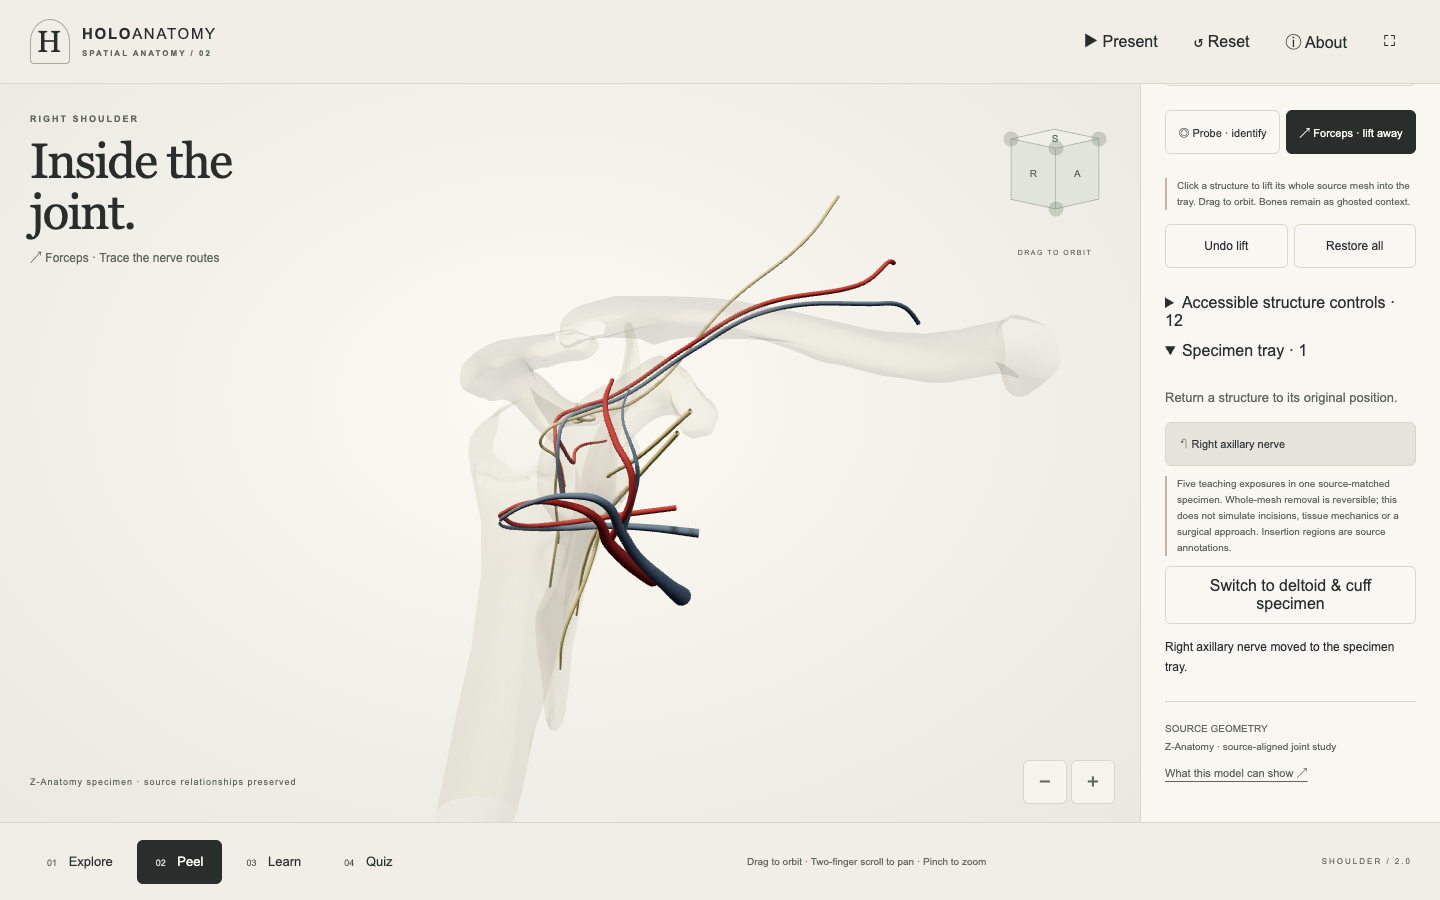
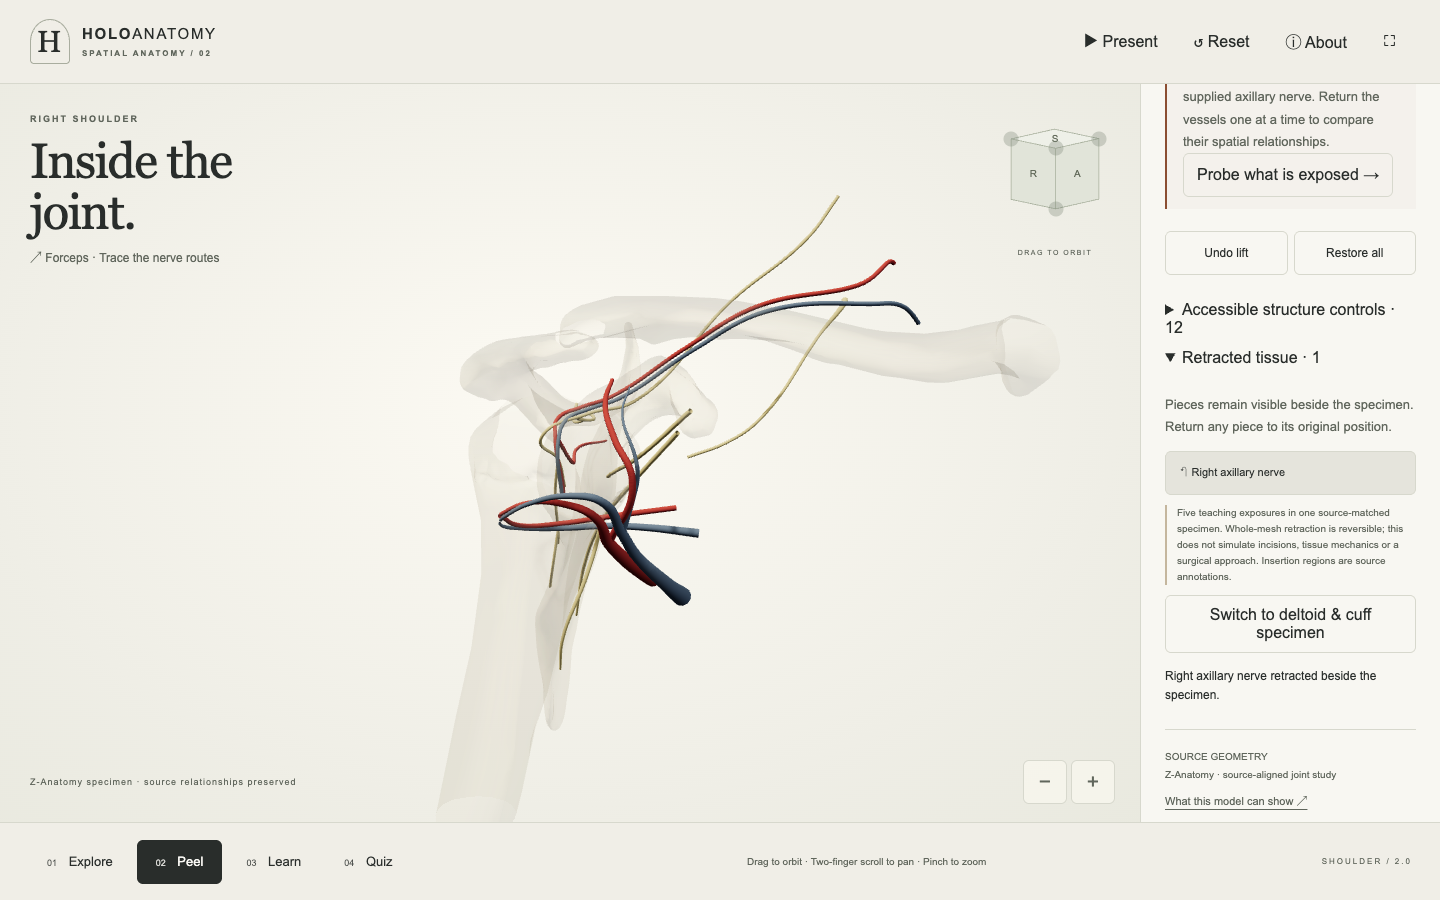
Make shoulder forceps pull and park visible tissue with reversible gestures

diff --git a/arjan-portfolio/public/holoanatomy/shoulder/app.js b/arjan-portfolio/public/holoanatomy/shoulder/app.js
@@ -114,6 +114,40 @@ function initialize() {
   };
   $("close-info").onclick = () => $("info-dialog").close();
   bindInteraction($("specimen"), scene, {
+    pull: {
+      enabled: () => state.mode === "peel" && state.dissection.active && state.dissection.tool === "lift",
+      begin: (id, e) => {
+        const d = state.dissection;
+        if (state.mode !== "peel" || !d.active || d.tool !== "lift" || ATLAS_GROUPS.bones.includes(id) || d.removed.includes(id) || !dissectionIds(state).includes(id)) return false;
+        scene.beginTissuePull(id);
+        scene.pull.pointer = {x:e.clientX, y:e.clientY};
+        $("specimen").style.cursor = "grabbing";
+        $("feedback").textContent = `Holding ${name(id)}. Pull away; release a short pull to snap back.`;
+        $("hover").hidden = true;
+        return true;
+      },
+      move: (dx,dy) => {
+        scene.moveTissuePull(dx,dy);
+        if (!scene.pull) return;
+        const rect = $("specimen").getBoundingClientRect(), badge = $("hover");
+        badge.hidden = false;
+        badge.textContent = `${name(scene.pull.id)} · ${Math.hypot(dx,dy) > 35 ? "Release to park" : "Pull farther"}`;
+        badge.style.left = Math.max(8, Math.min(rect.width - 230, scene.pull.pointer.x + dx - rect.left + 18)) + "px";
+        badge.style.top = Math.max(8, Math.min(rect.height - 45, scene.pull.pointer.y + dy - rect.top - 40)) + "px";
+      },
+      end: (commit) => {
+        const id = scene.pull?.id;
+        scene.finishTissuePull(commit);
+        $("hover").hidden = true;
+        if (commit && id) {
+          dissect(state,id);
+          $("feedback").textContent = `${name(id)} retracted. ${DISSECTION[state.dissection.step].task} Tap the lifted piece to return it.`;
+          if (!matchMedia("(prefers-reduced-motion: reduce)").matches) navigator.vibrate?.(12);
+        } else $("feedback").textContent = "Returned to its original position. Pull farther to keep a structure retracted.";
+        scene.refresh(); renderPanel();
+      },
+      cancel: () => { $("hover").hidden = true; scene.finishTissuePull(false); scene.refresh(); $("feedback").textContent = "Pull cancelled; tissue returned."; },
+    },
     select,
     hover: (id, e) => {
       const node = $("hover");
@@ -258,9 +292,16 @@ function atlasNavigation() {
 }
 function select(id) {
   if (id && state.mode === "peel" && state.dissection.active) {
+    if (state.dissection.tool === "lift" && state.dissection.removed.includes(id)) {
+      state.dissection.undo.push([...state.dissection.removed]);
+      state.dissection.removed = state.dissection.removed.filter(part => part !== id);
+      state.selected = null;
+      $("feedback").textContent = `${name(id)} returned to its original position.`;
+      scene.refresh(); renderPanel(); return;
+    }
     const changed = dissect(state, id);
     $("feedback").textContent = changed
-      ? state.dissection.tool === "lift" ? `${name(id)} moved to the specimen tray.`
+      ? state.dissection.tool === "lift" ? `${name(id)} retracted beside the specimen.`
         : id === DISSECTION[state.dissection.step].target ? `Found it: ${name(id)}. Observation recorded.` : `${name(id)}. Keep exploring the target relationship.`
       : "This structure stays as bone context. Lift a soft-tissue structure instead.";
     scene.refresh(); renderPanel(); return;
@@ -442,13 +483,20 @@ function dissectionPanel() {
     <div class="steps" role="progressbar" aria-label="Dissection observations" aria-valuemin="0" aria-valuemax="5" aria-valuenow="${d.found.length}"><span style="width:${d.found.length / DISSECTION.length * 100}%"></span></div>
     ${d.found.length === DISSECTION.length ? '<p class="observation">All five targets found. Reassemble the specimen and explore how their positions relate. Use Reset for a fresh session.</p>' : ''}
     <nav class="study-tabs" aria-label="Dissection stations">${DISSECTION.map((step,i) => `<button data-station="${i}" aria-current="${i === d.step ? 'step' : 'false'}">${d.found.includes(i) ? '✓' : i+1} · ${step.title}</button>`).join('')}</nav>
-    <div class="study-tabs" role="group" aria-label="Dissection tools"><button data-tool="probe" aria-pressed="${d.tool === 'probe'}">◎ Probe · identify</button><button data-tool="lift" aria-pressed="${d.tool === 'lift'}">↗ Forceps · lift away</button></div>
-    <p class="integrity">Click a structure to ${d.tool === 'probe' ? 'identify it' : 'lift its whole source mesh into the tray'}. Drag to orbit. Bones remain as ghosted context.</p>
+    <div class="study-tabs" role="group" aria-label="Dissection tools"><button data-tool="probe" aria-pressed="${d.tool === 'probe'}">◎ Probe · identify</button><button data-tool="lift" aria-pressed="${d.tool === 'lift'}">↗ Forceps · grab & pull</button></div>
+    <p class="integrity"> ${d.tool === 'probe' ? 'Click to identify. Drag to orbit.' : 'Grab tissue and drag to pull it aside. Release to park it; tap a parked piece to return. Drag empty space to orbit.'} Bones remain as ghosted context.</p>
+    ${d.removed.some(id => dissectionIds(state).includes(id)) ? `<div class="observation"><span class="edition">WHAT DID YOU UNCOVER?</span><p>${[
+      "Compare the exposed cuff surfaces with the lifted bursa. Return the piece, then pull it away again to see what it obscures.",
+      "Switch to Probe and find the infraspinatus tendon region. Compare its location with the separate insertion annotations.",
+      "Orbit through the opening you created. Use Probe to distinguish the labrum, cartilage surfaces and ligament structures; restore the capsule to compare.",
+      "Inspect the joint rim from a second angle. Return one lifted structure at a time and observe which surfaces it covers.",
+      "Switch to Probe and trace the supplied axillary nerve. Return the vessels one at a time to compare their spatial relationships."
+    ][d.step]}</p><button data-tool="probe">Probe what is exposed →</button></div>` : ''}
     <div class="action-row"><button data-action="lab-undo" ${!d.undo.length ? 'disabled' : ''}>Undo lift</button><button data-action="lab-restore" ${!d.removed.length ? 'disabled' : ''}>Restore all</button></div>
     ${state.selected ? `<div class="observation"><strong>${escape(name(state.selected))}</strong><button data-action="focus">Focus structure</button><button data-action="sources">Source & provenance</button></div>` : ''}
     <details><summary>Accessible structure controls · ${available.length}</summary><div class="stage-list">${available.map(id => `<button data-select="${id}">${escape(name(id))}</button>`).join('')}</div></details>
-    <details ${d.removed.length ? 'open' : ''}><summary>Specimen tray · ${d.removed.length}</summary><p>Return a structure to its original position.</p><div class="stage-list">${d.removed.map(id => `<button data-restore="${id}">↶ ${escape(name(id))}</button>`).join('')}</div></details>
-    <p class="integrity">Five teaching exposures in one source-matched specimen. Whole-mesh removal is reversible; this does not simulate incisions, tissue mechanics or a surgical approach. Insertion regions are source annotations.</p>
+    <details ${d.removed.length ? 'open' : ''}><summary>Retracted tissue · ${d.removed.length}</summary><p>Pieces remain visible beside the specimen. Return any piece to its original position.</p><div class="stage-list">${d.removed.map(id => `<button data-restore="${id}">↶ ${escape(name(id))}</button>`).join('')}</div></details>
+    <p class="integrity">Five teaching exposures in one source-matched specimen. Whole-mesh retraction is reversible; this does not simulate incisions, tissue mechanics or a surgical approach. Insertion regions are source annotations.</p>
     <button data-action="surface-lab">Switch to deltoid & cuff specimen</button>`;
 }
 function lessonStep(n) {

diff --git a/arjan-portfolio/public/holoanatomy/shoulder/scene.js b/arjan-portfolio/public/holoanatomy/shoulder/scene.js
@@ -277,6 +277,32 @@ export class ShoulderScene {
     this.pitch = clamp(this.pitch + dy * 0.006, -1.48, 1.48);
     this.invalidate();
   }
+  beginTissuePull(id) {
+    this.transition = null;
+    for (const mesh of this.fragments.get(id)) delete mesh.userData.settle;
+    this.pull = { id, starts: this.fragments.get(id).map(mesh => mesh.position.clone()) };
+    this.hover(id);
+  }
+  moveTissuePull(dx, dy) {
+    if (!this.pull) return;
+    const scale = 2 * this.distance * Math.tan(this.camera.fov * Math.PI / 360) / this.canvas.clientHeight;
+    const limit = this.canvas.clientHeight * 0.32;
+    const delta = new THREE.Vector3().setFromMatrixColumn(this.camera.matrixWorld, 0).multiplyScalar(clamp(dx, -limit, limit) * scale)
+      .addScaledVector(new THREE.Vector3().setFromMatrixColumn(this.camera.matrixWorld, 1), -clamp(dy, -limit, limit) * scale);
+    this.fragments.get(this.pull.id).forEach((mesh,i) => {
+      const inverse = mesh.parent.matrixWorld.clone().invert();
+      const local = delta.clone().applyMatrix4(inverse).sub(new THREE.Vector3().applyMatrix4(inverse));
+      mesh.position.copy(this.pull.starts[i]).add(local);
+    });
+    this.invalidate();
+  }
+  finishTissuePull(commit) {
+    if (!this.pull) return;
+    const id = this.pull.id;
+    if (commit) this.state.dissection.offsets[id] = this.fragments.get(id).map(mesh => mesh.position.clone().sub(mesh.userData.home).toArray());
+    this.pull = null;
+    this.hover(null);
+  }
   previewPull(id, dx, dy) {
     const meshes = this.fragments.get(id);
     if (!meshes) return;
@@ -373,7 +399,15 @@ export class ShoulderScene {
         mat.needsUpdate = true;
       }
       mesh.castShadow = v === "visible";
-      mesh.position.copy(mesh.userData.home);
+      const desired = mesh.userData.home.clone();
+      const d = this.state.dissection;
+      if (d.active && this.state.mode === "peel" && d.removed.includes(id)) {
+        const index = this.fragments.get(id).indexOf(mesh);
+        desired.add(new THREE.Vector3().fromArray(d.offsets[id]?.[index] || [0.65, 0.2, 0]));
+      }
+      if (id.startsWith("ZA_") && !mesh.position.equals(desired) && !matchMedia("(prefers-reduced-motion: reduce)").matches) {
+        mesh.userData.settle = {from: mesh.position.clone(), to: desired, start: performance.now()};
+      } else { mesh.position.copy(desired); delete mesh.userData.settle; }
     }
     this.invalidate();
   }
@@ -530,13 +564,21 @@ export class ShoulderScene {
         }
       });
     }
+    let settling = false;
+    for (const mesh of this.allMeshes()) {
+      const motion = mesh.userData.settle;
+      if (!motion || this.pull?.id === mesh.userData.structureId) continue;
+      const t = clamp((time - motion.start) / 200, 0, 1);
+      mesh.position.lerpVectors(motion.from, motion.to, 1 - Math.pow(1 - t, 3));
+      if (t === 1) delete mesh.userData.settle; else settling = true;
+    }
     this.renderer.render(this.scene, this.camera);
     if (this.previousFrame && time - this.previousFrame < 150)
       this.frameTimes.push(time - this.previousFrame);
     this.previousFrame = time;
     if (this.frameTimes.length > 600) this.frameTimes.shift();
     this.onFrame?.();
-    if (this.transition || this.profileUntil > time) this.invalidate();
+    if (settling || this.transition || this.profileUntil > time) this.invalidate();
   }
   metrics() {
     const sorted = [...this.frameTimes].sort((a, b) => a - b);

diff --git a/arjan-portfolio/public/holoanatomy/shoulder/interaction.js b/arjan-portfolio/public/holoanatomy/shoulder/interaction.js
@@ -4,12 +4,13 @@ import { isClick } from "./model.js";
 export function bindInteraction(
   element,
   scene,
-  { select, hover, stage, canStage = () => false, widget = false },
+  { select, hover, stage, canStage = () => false, pull, widget = false },
 ) {
   const points = new Map();
   let start = null,
     multi = false,
     dragId = null,
+    pulling = false,
     moved = false;
   const midpoint = () => {
     const p = [...points.values()];
@@ -27,9 +28,13 @@ export function bindInteraction(
       start = { x: e.clientX, y: e.clientY };
       multi = false;
       moved = false;
-      dragId = !widget && canStage() ? scene.pick(e.clientX, e.clientY) : null;
+      const hit = !widget && e.button === 0 && !e.shiftKey ? scene.pick(e.clientX, e.clientY) : null;
+      pulling = Boolean(hit && pull?.begin(hit, e));
+      dragId = pulling ? hit : !widget && canStage() ? scene.pick(e.clientX, e.clientY) : null;
     } else {
       multi = true;
+      if (pulling) pull.cancel();
+      pulling = false;
       dragId = null;
     }
     scene.hover(null);
@@ -59,7 +64,8 @@ export function bindInteraction(
       dy = e.clientY - old.y;
     if (dragId) {
       element.style.cursor = "grabbing";
-      scene.previewPull(dragId, e.clientX - start.x, e.clientY - start.y);
+      if (pulling) pull.move(e.clientX - start.x, e.clientY - start.y);
+      else scene.previewPull(dragId, e.clientX - start.x, e.clientY - start.y);
       return;
     }
     if (e.shiftKey || e.buttons === 2 || e.buttons === 4) scene.pan(dx, dy);
@@ -71,6 +77,12 @@ export function bindInteraction(
       start && isClick(start, { x: e.clientX, y: e.clientY }, multi) && !moved;
     points.delete(e.pointerId);
     element.style.cursor = "";
+    if (pulling) {
+      if (e.type === "pointerup") pull.end(moved && Math.hypot(e.clientX - start.x, e.clientY - start.y) > 35);
+      else pull.cancel();
+      pulling = false; dragId = null; start = null; multi = false;
+      return;
+    }
     if (e.type === "pointerup" && points.size === 0) {
       if (click && !widget) select?.(scene.pick(e.clientX, e.clientY));
       else if (dragId && moved) {
@@ -95,7 +107,7 @@ export function bindInteraction(
     }
   });
   element.addEventListener("dblclick", (e) => {
-    if (widget) return;
+    if (widget || pull?.enabled()) return;
     const id = scene.pick(e.clientX, e.clientY);
     if (id) {
       select?.(id);

diff --git a/arjan-portfolio/public/holoanatomy/shoulder/model.js b/arjan-portfolio/public/holoanatomy/shoulder/model.js
@@ -210,13 +210,13 @@ export function dissectionIds(state) {
 }
 export function dissect(state, id) {
   const d = state.dissection;
-  if (!d.active || !dissectionIds(state).includes(id) || d.removed.includes(id)) return false;
+  if (!d.active || !dissectionIds(state).includes(id)) return false;
   if (d.tool === "probe") {
     state.selected = id;
     if (id === DISSECTION[d.step].target && !d.found.includes(d.step)) d.found.push(d.step);
     return true;
   }
-  if (ATLAS_GROUPS.bones.includes(id)) return false;
+  if (ATLAS_GROUPS.bones.includes(id) || d.removed.includes(id)) return false;
   d.undo.push([...d.removed]);
   d.removed.push(id);
   state.selected = null;
@@ -399,7 +399,7 @@ export function createState() {
     }
   }
   return {
-    dissection: { active: false, step: 0, tool: "probe", removed: [], undo: [], found: [] },
+    dissection: { active: false, step: 0, tool: "probe", removed: [], offsets: {}, undo: [], found: [] },
     mode: "explore",
     presenting: false,
     study: null,
@@ -425,7 +425,7 @@ export function createState() {
 }
 export function visibility(state, id) {
   if (state.mode === "peel" && state.dissection.active) {
-    if (!dissectionIds(state).includes(id) || state.dissection.removed.includes(id)) return "hidden";
+    if (!dissectionIds(state).includes(id)) return "hidden";
     return ATLAS_GROUPS.bones.includes(id) && state.selected !== id ? "ghost" : "visible";
   }
   const p = PRESETS[state.view];

diff --git a/arjan-portfolio/Documentation/SHOULDER-DISSECTION-LAB.md b/arjan-portfolio/Documentation/SHOULDER-DISSECTION-LAB.md
@@ -4,10 +4,12 @@ Peel now opens a source-matched Z-Anatomy dissection lab when the additional ana
 
 Five teaching exposures cover cuff/bursae, tendon/insertion annotations, capsule, joint rim/ligaments/cartilage, and regional nerves/vessels. These are thematic study stations, not a claimed surgical sequence or segmentation of tissue depth. Matching bones remain ghosted. No mixing of specimens, generated anatomy, or new anatomical claims.
 
-Probe selects and records each station's target once. Forceps removes one whole source mesh from the scene into a named return tray. Undo, individual return, restore all, and reset recover source positions. Drag remains orbit. Keyboard-accessible structure buttons invoke the same actions. Observations track exploration, not clinical competence; no score for removal or time pressure.
+Probe selects and records each station's target once. Forceps grabs a whole source mesh and translates it with the pointer on the camera plane. Pulls over 35 pixels park it visibly beside the joint, bounded to 32% of the canvas height in each direction. Short pulls and cancelled gestures return it. Parked pieces can be tapped to restore; the named return list and keyboard controls remain available. Undo, individual return, restore all, and reset recover source positions. Drag remains orbit. Keyboard-accessible structure buttons invoke the same actions. Observations track exploration, not clinical competence; no score for removal or time pressure.
 
-All 31 non-bone atlas parts can be lifted in their respective stations. Removed parts persist between stations until restored, while the original Explore/Learn/Quiz visibility stays separate. Bones cannot be removed. Source provenance remains accessible.
+All 31 non-bone atlas parts can be lifted in their respective stations. Retracted parts persist between stations until restored, while the original Explore/Learn/Quiz visibility stays separate. Bones cannot be removed. Source provenance remains accessible.
 
 No incision, deformation, haptics, surgical planes, or physiological response is simulated. Four complete cuff tendons remain unavailable; insertion regions remain authored annotations. This is an interactive anatomy study, not a validated surgical simulator.
 
 Verification: 95 portfolio tests and 21 shoulder tests; typecheck and production build. `tools/shoulder/dissection-qa.mjs` checks all stations, probe observations, lift/undo, direct rendered-mesh picking, source separation, desktop accessibility, mobile width, reset and mode transitions. Screenshots in `shoulder-dissection-qa/`. Physical device and educator review remain outstanding.
+
+Grab update: pointer-driven rigid translation, 200ms eased returns (instant with reduced motion), grab/release badge, and optional 12ms browser vibration on parking. No tissue strain or force-feedback claim. Tests exercise live position change without orbit, visible parking, exact undo, short-pull snap-back and pointer cancellation.
